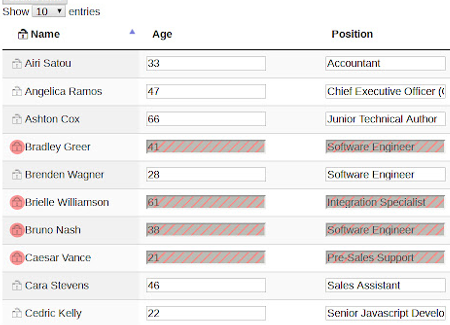
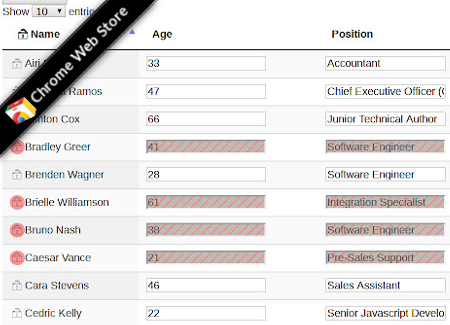
Add 3 new projects to portfolio and add "Published Ribbon"
- Bookmarklet Creator, PDF Template Parse and OrderGuide.
- Published Ribbon to denote Chrome web store and npm packages.

Changed region(s): [[0.0, 0.0, 0.3733, 0.4923]]

diff --git a/index.html b/index.html
@@ -242,6 +242,46 @@
                 <h5 class="portfolio-text font-weight-lighter">MVC (CRUD) Bookmarklet </h5>
               </div>
             </div>
+
+            <!-- Portfolio Item 6 -->
+            <div class="col-md-6 col-lg-4">
+              <div class="portfolio-item mx-auto" data-toggle="modal" data-target="#portfolioModal6">
+                <h5 class="portfolio-text text-uppercase">Bookmarklet Creator</h5>
+                <div class="portfolio-item-caption d-flex align-items-center justify-content-center h-100 w-100">
+                  <div class="portfolio-item-caption-content text-center text-white">
+                    <p>Learn more...</p>
+                  </div>
+                </div>
+                <img class="img-fluid" src="/img/portfolio/portfolioBookmarkletWebpackPlugin.png" alt="Bookmarklet Webpack Plugin screenshot" />
+                <h5 class="portfolio-text font-weight-lighter">Webpack Plugin</h5>
+              </div>
+            </div>
+            <!-- Portfolio Item 7 -->
+            <div class="col-md-6 col-lg-4">
+              <div class="portfolio-item mx-auto" data-toggle="modal" data-target="#portfolioModal7">
+                <h5 class="portfolio-text text-uppercase">Pdf Template Parse</h5>
+                <div class="portfolio-item-caption d-flex align-items-center justify-content-center h-100 w-100">
+                  <div class="portfolio-item-caption-content text-center text-white">
+                    <p>Learn more...</p>
+                  </div>
+                </div>
+                <img class="img-fluid" src="img/portfolio/portfolioPdfTemplateParse.png" alt="Pdf Template Parse screenshot" />
+                <h5 class="portfolio-text font-weight-lighter">Frontend PDF Parser </h5>
+              </div>
+            </div>
+            <!-- Portfolio Item 8 -->
+            <div class="col-md-6 col-lg-4">
+              <div class="portfolio-item mx-auto" data-toggle="modal" data-target="#portfolioModal8">
+                <h5 class="portfolio-text text-uppercase">OrderGuide</h5>
+                <div class="portfolio-item-caption d-flex align-items-center justify-content-center h-100 w-100">
+                  <div class="portfolio-item-caption-content text-center text-white">
+                    <p>Learn more...</p>
+                  </div>
+                </div>
+                <img class="img-fluid" src="img/portfolio/portfolioOrderGuide.png" alt="Paintballnet Hotkeys screenshot" />
+                <h5 class="portfolio-text font-weight-lighter">Progressive Web App </h5>
+              </div>
+            </div>
        
         <!-- /.row -->
       </div>
@@ -746,6 +786,157 @@
               </a>
               <a class="btn btn-primary m-2"
                 href="https://github.com/tomrule007/paintballnet-hotkeys">
+                Github Source
+              </a>
+            </div>
+          </div>
+        </div>
+      </div>
+    </div>
+  </div>
+</div>
+<!-- Portfolio Modal 6 -->
+<div class="portfolio-modal modal fade" id="portfolioModal6" tabindex="-1" role="dialog"
+  aria-labelledby="portfolioModal6Label" aria-hidden="true">
+  <div class="modal-dialog modal-xl" role="document">
+    <div class="modal-content">
+      <button type="button" class="close" data-dismiss="modal" aria-label="Close">
+        <span aria-hidden="true">
+          <i class="fas fa-times"></i>
+        </span>
+      </button>
+      <div class="modal-body text-center">
+        <div class="container">
+          <div class="row justify-content-center">
+            <div class="col-lg-8">
+              <!-- Portfolio Modal - Title -->
+              <h2 class="portfolio-modal-title text-secondary text-uppercase mb-0">
+                PDF Template Parse
+              </h2>
+              <!-- Icon Divider -->
+              <div class="divider-custom">
+                <div class="divider-custom-line"></div>
+                <div class="divider-custom-icon">
+                  <i class="fas fa-star"></i>
+                </div>
+                <div class="divider-custom-line"></div>
+              </div>
+              <p>
+                A published Webpack plugin to convert a javascript bundle into a html page with a link to bookmarklet-ified version of the javascript bundle.
+              </p>
+
+              <!-- Portfolio Modal - Image -->
+              <img class="img-fluid rounded border" src="img/portfolio/bookmarklet-webpack-plugin-demo.gif"
+                alt="Bookmarklet Webpack Plugin demo" />
+              <!-- Portfolio Modal - Text -->
+              <p class="font-italic m-3">
+                JS • HTML • CSS • Webpack/Babel • NPM
+              </p>
+              <a class="btn btn-primary m-2" href="https://www.npmjs.com/package/bookmarklet-webpack-plugin">
+                NPM Package
+              </a>
+              <a class="btn btn-primary m-2" href="https://github.com/tomrule007/bookmarklet-webpack-plugin">
+                Github Source
+              </a>
+            </div>
+          </div>
+        </div>
+      </div>
+    </div>
+  </div>
+</div>
+<!-- Portfolio Modal 7 -->
+<div class="portfolio-modal modal fade" id="portfolioModal7" tabindex="-1" role="dialog"
+  aria-labelledby="portfolioModal7Label" aria-hidden="true">
+  <div class="modal-dialog modal-xl" role="document">
+    <div class="modal-content">
+      <button type="button" class="close" data-dismiss="modal" aria-label="Close">
+        <span aria-hidden="true">
+          <i class="fas fa-times"></i>
+        </span>
+      </button>
+      <div class="modal-body text-center">
+        <div class="container">
+          <div class="row justify-content-center">
+            <div class="col-lg-8">
+              <!-- Portfolio Modal - Title -->
+              <h2 class="portfolio-modal-title text-secondary text-uppercase mb-0">
+                PDF Template Parse
+              </h2>
+              <!-- Icon Divider -->
+              <div class="divider-custom">
+                <div class="divider-custom-line"></div>
+                <div class="divider-custom-icon">
+                  <i class="fas fa-star"></i>
+                </div>
+                <div class="divider-custom-line"></div>
+              </div>
+              <p>
+JS Front-end PDF parser with template engine to convert pdf documents into organized data objects. Can extract values or
+table data without requiring a backend.
+              </p>
+
+              <!-- Portfolio Modal - Image -->
+              <img class="img-fluid rounded border" src="img/portfolio/portfolioPdfTemplateParse.png"
+                alt="PDF Template parse demo" />
+              <!-- Portfolio Modal - Text -->
+              <p class="font-italic m-3">
+                JS • Webpack/Babel
+              </p>
+              <a class="btn btn-primary m-2" href="https://www.npmjs.com/package/pdf-template-parse">
+                NPM Package
+              </a>
+              <a class="btn btn-primary m-2" href="https://github.com/tomrule007/pdf-text.js/tree/development/packages/pdf-template-parse">
+                Github Source
+              </a>
+            </div>
+          </div>
+        </div>
+      </div>
+    </div>
+  </div>
+</div>
+<!-- Portfolio Modal 8 -->
+<div class="portfolio-modal modal fade" id="portfolioModal8" tabindex="-1" role="dialog"
+  aria-labelledby="portfolioModal8Label" aria-hidden="true">
+  <div class="modal-dialog modal-xl" role="document">
+    <div class="modal-content">
+      <button type="button" class="close" data-dismiss="modal" aria-label="Close">
+        <span aria-hidden="true">
+          <i class="fas fa-times"></i>
+        </span>
+      </button>
+      <div class="modal-body text-center">
+        <div class="container">
+          <div class="row justify-content-center">
+            <div class="col-lg-8">
+              <!-- Portfolio Modal - Title -->
+              <h2 class="portfolio-modal-title text-secondary text-uppercase mb-0">
+                OrderGuide
+              </h2>
+              <!-- Icon Divider -->
+              <div class="divider-custom">
+                <div class="divider-custom-line"></div>
+                <div class="divider-custom-icon">
+                  <i class="fas fa-star"></i>
+                </div>
+                <div class="divider-custom-line"></div>
+              </div>
+              <p>
+                A fully responsive single page progressive web application built to convert an excel spreadsheet into a searchable web based display. Designed to reduce data theft security concerns by processing all data locally on the frontend and persisting with localstorage.
+              </p>
+
+              <!-- Portfolio Modal - Image -->
+              <img class="img-fluid rounded border" src="img/portfolio/orderguide-demo.gif"
+                alt="Smart Brain: face detector demo" />
+              <!-- Portfolio Modal - Text -->
+              <p class="font-italic m-3">
+                JS • HTML • CSS • React/Redux/RTK • Material UI
+              </p>
+              <a class="btn btn-primary m-2" href="https://orderguide.netlify.app/">
+                Live Link
+              </a>
+              <a class="btn btn-primary m-2" href="https://github.com/tomrule007/orderguide">
                 Github Source
               </a>
             </div>
